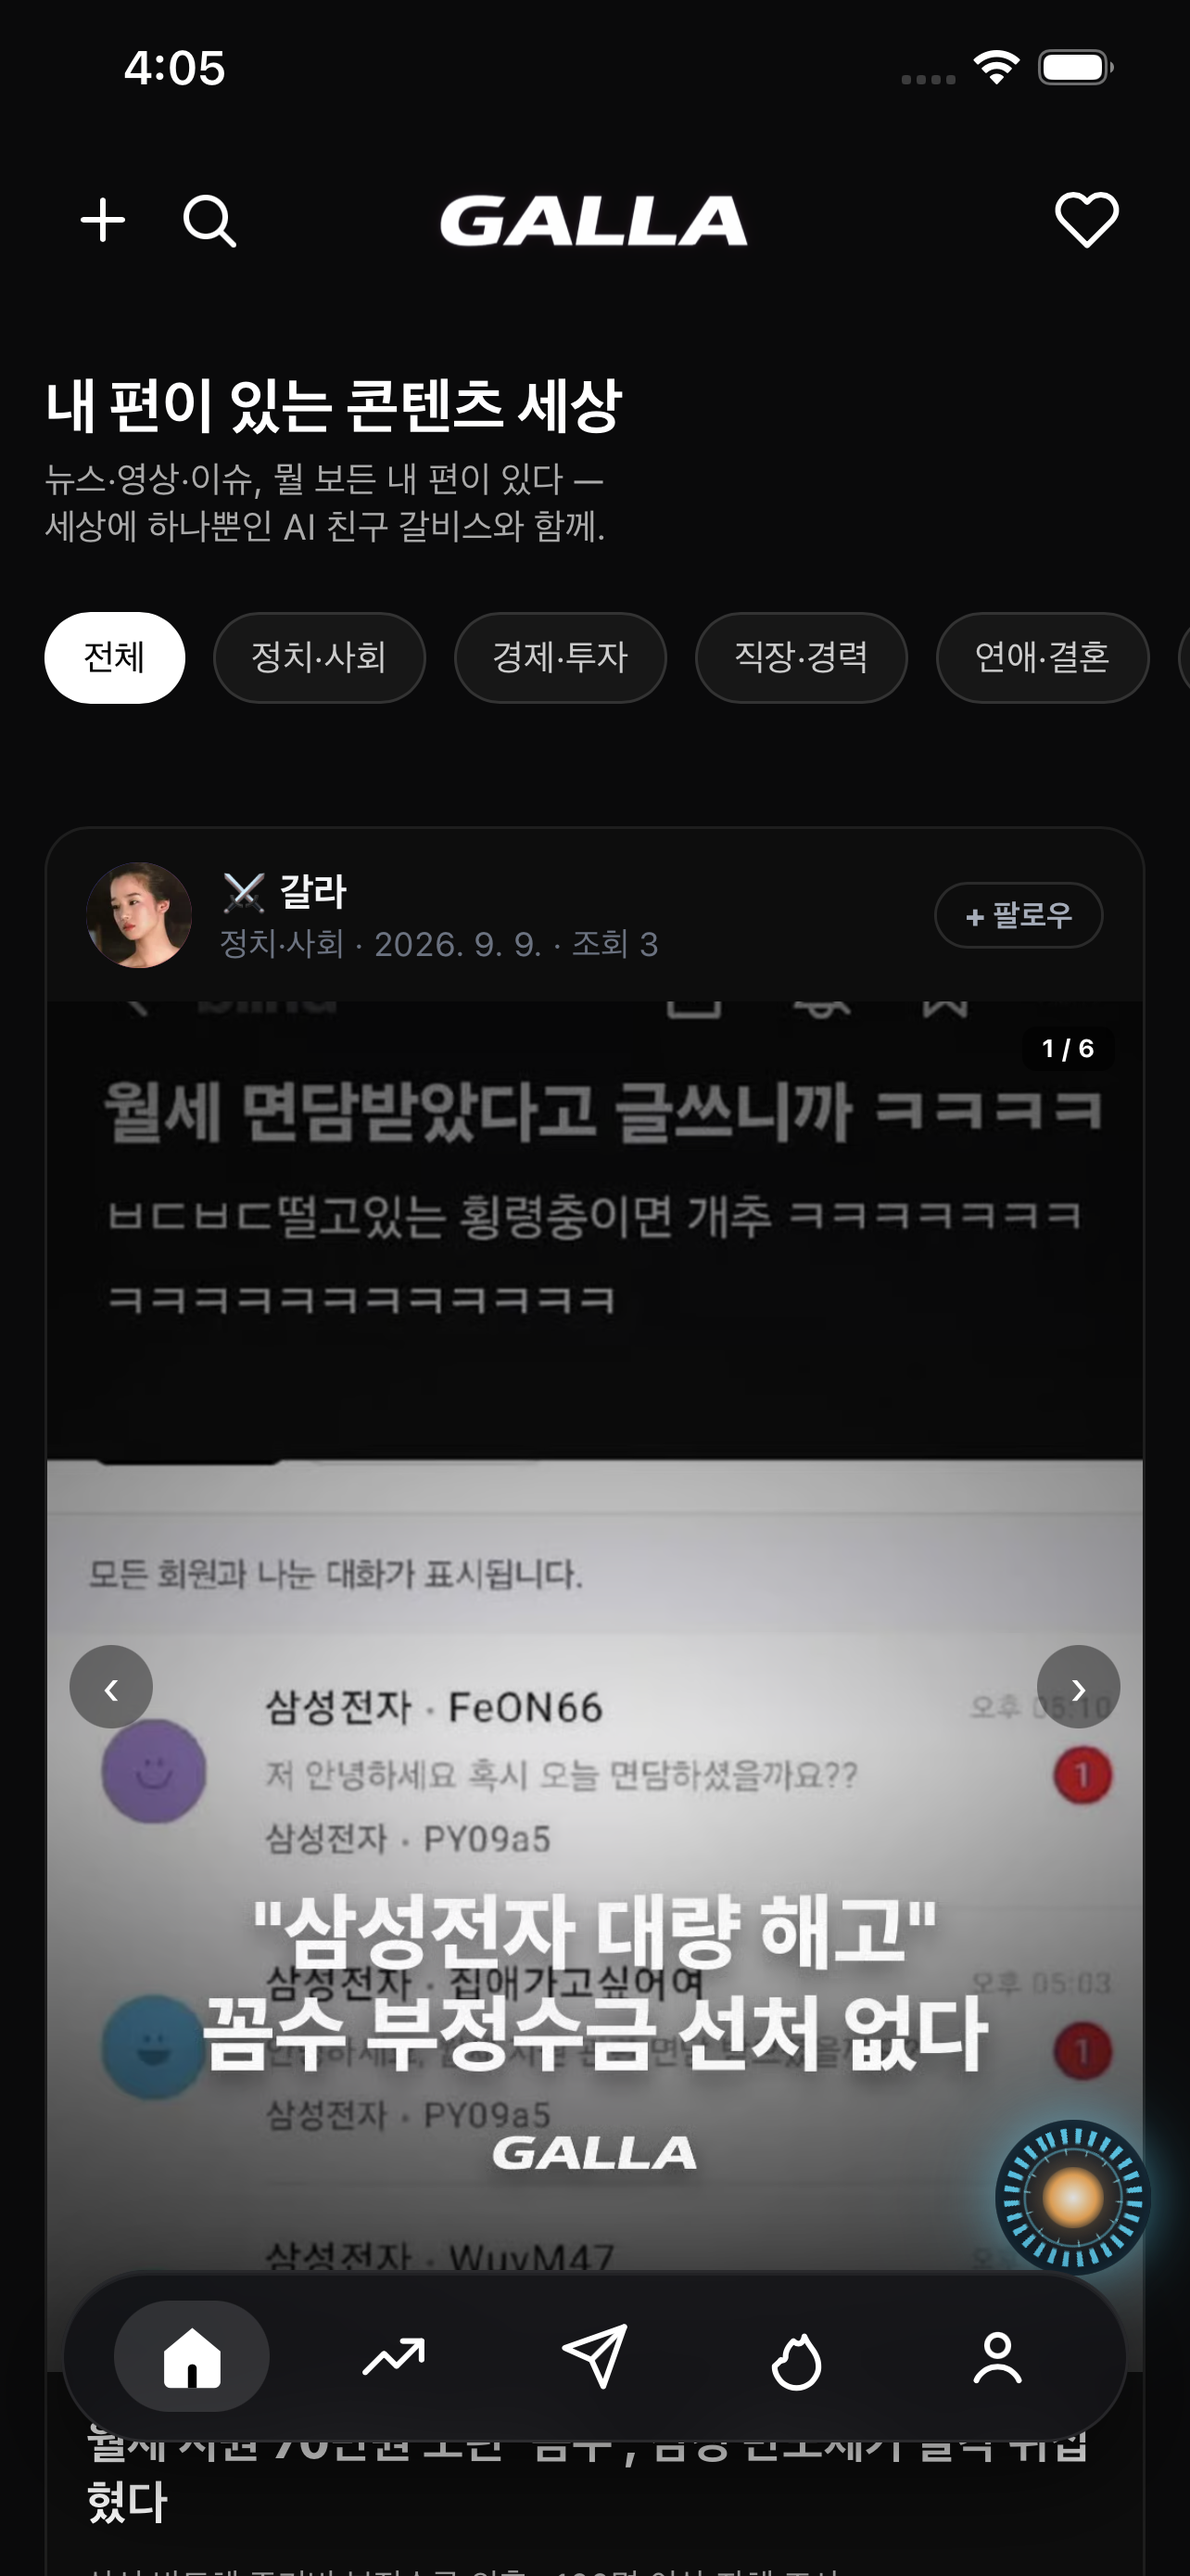
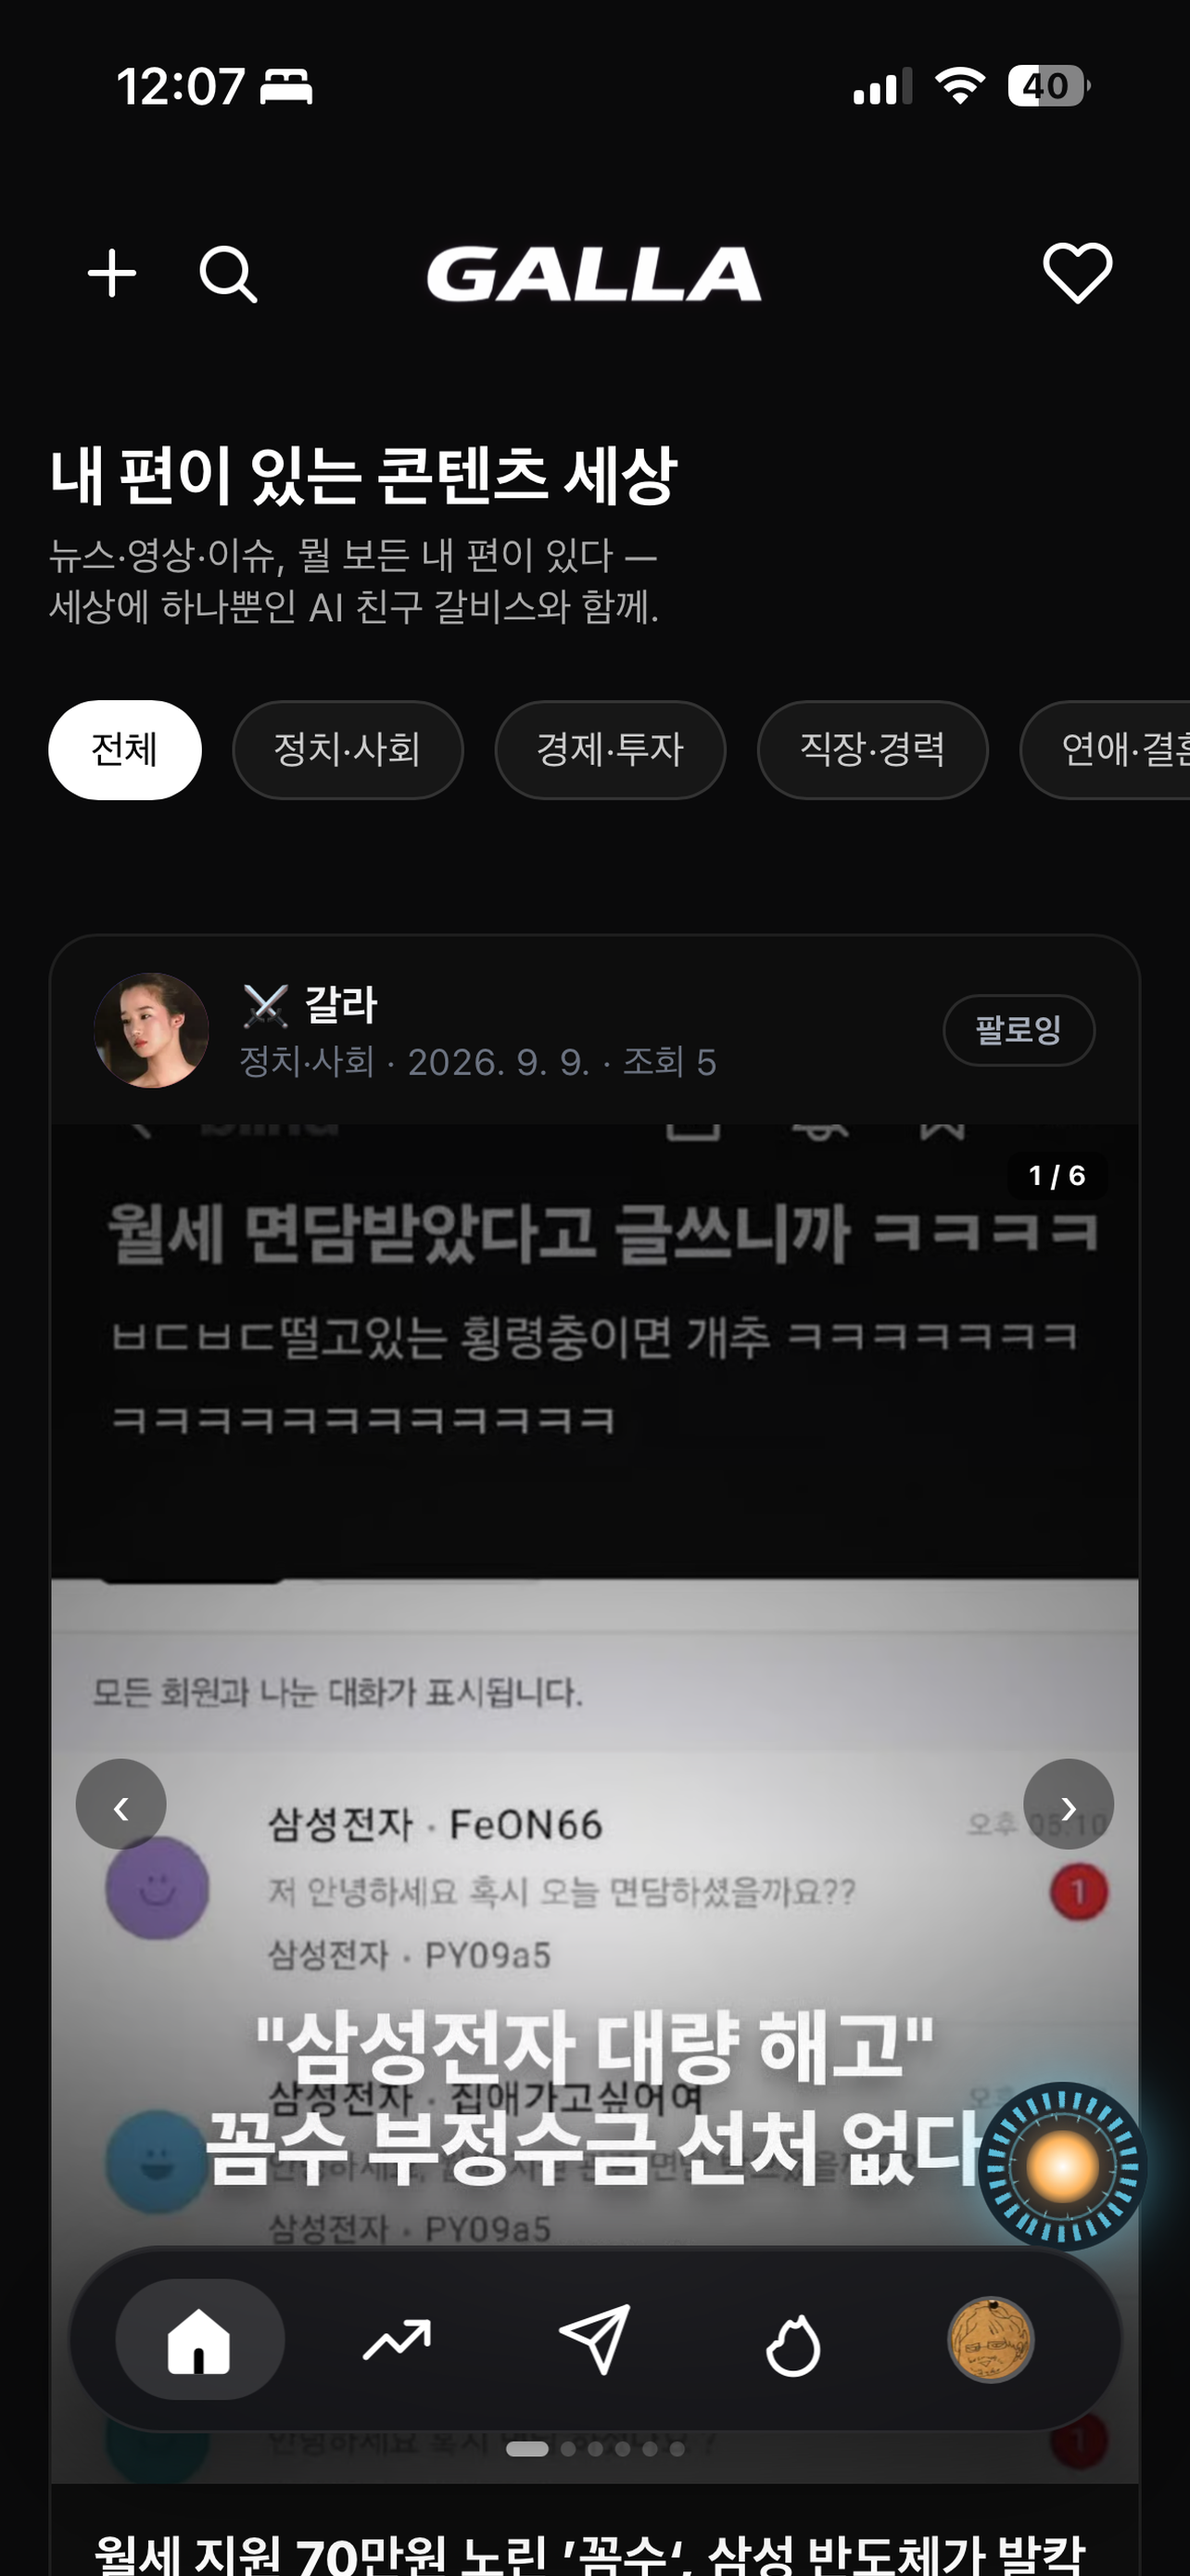
docs(qa): §6-5 난장·삐삐 웹 실측 — 4칸 확정
난장 개설(open_rooms 1행)·발언(last_message 갱신)까지 확인하고 검증 데이터는 삭제.
삐삐는 미개통 온보딩(랜덤/번호 골라 개통) 확인.

diff --git a/docs/qa-ui-walkthrough.md b/docs/qa-ui-walkthrough.md
@@ -319,6 +319,16 @@
 ⚠ **오탐 정정** — 유저 검색이 안 되는 줄 알았으나 결과는 `#dm-results` 안에 정상 렌더된다.
 내가 엉뚱한 선택자(`[class*=dm-u]`)로 찾았을 뿐이다.
 
+### 6-5. 난장 · 삐삐 (웹 실측 2026-09-09)
+
+| # | 요소 | 웹 | iOS | AOS | 실측 |
+|---|---|---|---|---|---|
+| 6-5-1 | 난장 탭 · 빈 상태 | ✅ | ⬜ | ⬜ | 방 0개일 때 「주제를 정해 아무나 뛰어드는 오픈 채팅」 + 「난장 열기」·「＋ 육성난장 열기」 |
+| 6-5-2 | **난장 개설** | ✅ | ⬜ | ⬜ | 이름·주제 입력 → 개설 → 방 입장(「1명」). `open_rooms` 1행(`kind=open`, `owner_id`=나) |
+| 6-5-3 | 난장 발언 | ✅ | ⬜ | ⬜ | `#dm-room-input` 전송 → 화면 반영 + `open_rooms.last_message` 갱신. **검증 후 방·메시지 삭제** |
+| 6-5-4 | 난장 검색 | ⬜ | ⬜ | ⬜ | `#lv-lobby-q` 「🔎 난장 검색 (육성·일반 통합)」 존재 |
+| 6-5-5 | 삐삐 미개통 온보딩 | ✅ | ⬜ | ⬜ | 「랜덤으로 개통 / 번호 골라 개통 / 📖 삐삐가 뭔가요? (30초)」 |
+
 ### 6-4. 친구
 친구 추가 · 메시지 · 프로필 홈 · 육성톡(⛔) · 면상톡(⛔) · 삐삐 남기기 — 각 ⬜.
 **빠져 있던 것**: 팔로우/언팔로우가 목록에 즉시 반영되는가(맞팔 표시 포함).
